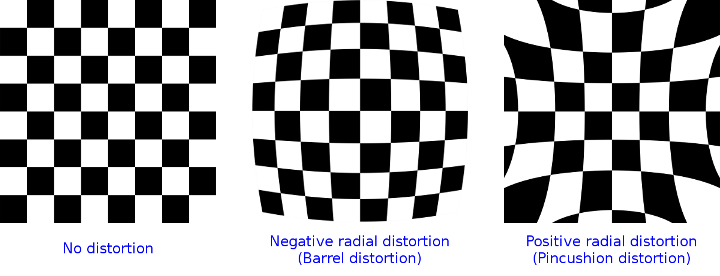
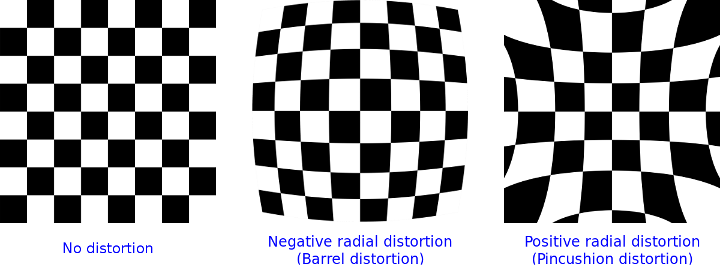
Fix distortion figure in calib3d. Positive radial distortion corresponds to pincushion distortion and negative to barrel distortion. Add another figure that illustrates the influence of k1 in the distortion effect.

diff --git a/modules/calib3d/include/opencv2/calib3d.hpp b/modules/calib3d/include/opencv2/calib3d.hpp
@@ -118,9 +118,10 @@ v = f_y*y'' + c_y
 tangential distortion coefficients. \f$s_1\f$, \f$s_2\f$, \f$s_3\f$, and \f$s_4\f$, are the thin prism distortion
 coefficients. Higher-order coefficients are not considered in OpenCV.
 
-The next figure shows two common types of radial distortion: barrel distortion (typically \f$ k_1 < 0 \f$) and pincushion distortion (typically \f$ k_1 > 0 \f$).
+The next figures show two common types of radial distortion: barrel distortion (typically \f$ k_1 < 0 \f$) and pincushion distortion (typically \f$ k_1 > 0 \f$).
 
 ![](pics/distortion_examples.png)
+![](pics/distortion_examples2.png)
 
 In some cases the image sensor may be tilted in order to focus an oblique plane in front of the
 camera (Scheimpfug condition). This can be useful for particle image velocimetry (PIV) or
